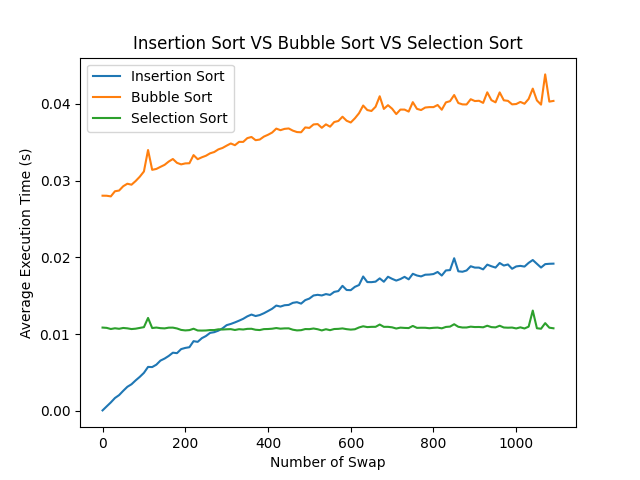
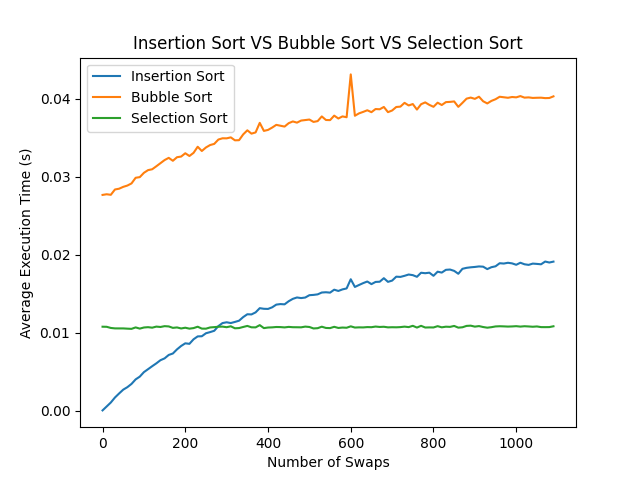
Fixed graph typo

diff --git a/experiment3.py b/experiment3.py
@@ -45,7 +45,7 @@ def experiment3():
     plt.plot(swap_steps, avg_bubble_sort_times, label='Bubble Sort')
     plt.plot(swap_steps, avg_selection_sort_times, label='Selection Sort')
 
-    plt.xlabel('Number of Swap')
+    plt.xlabel('Number of Swaps')
     plt.ylabel('Average Execution Time (s)')
     plt.title('Insertion Sort VS Bubble Sort VS Selection Sort')
     plt.legend()
